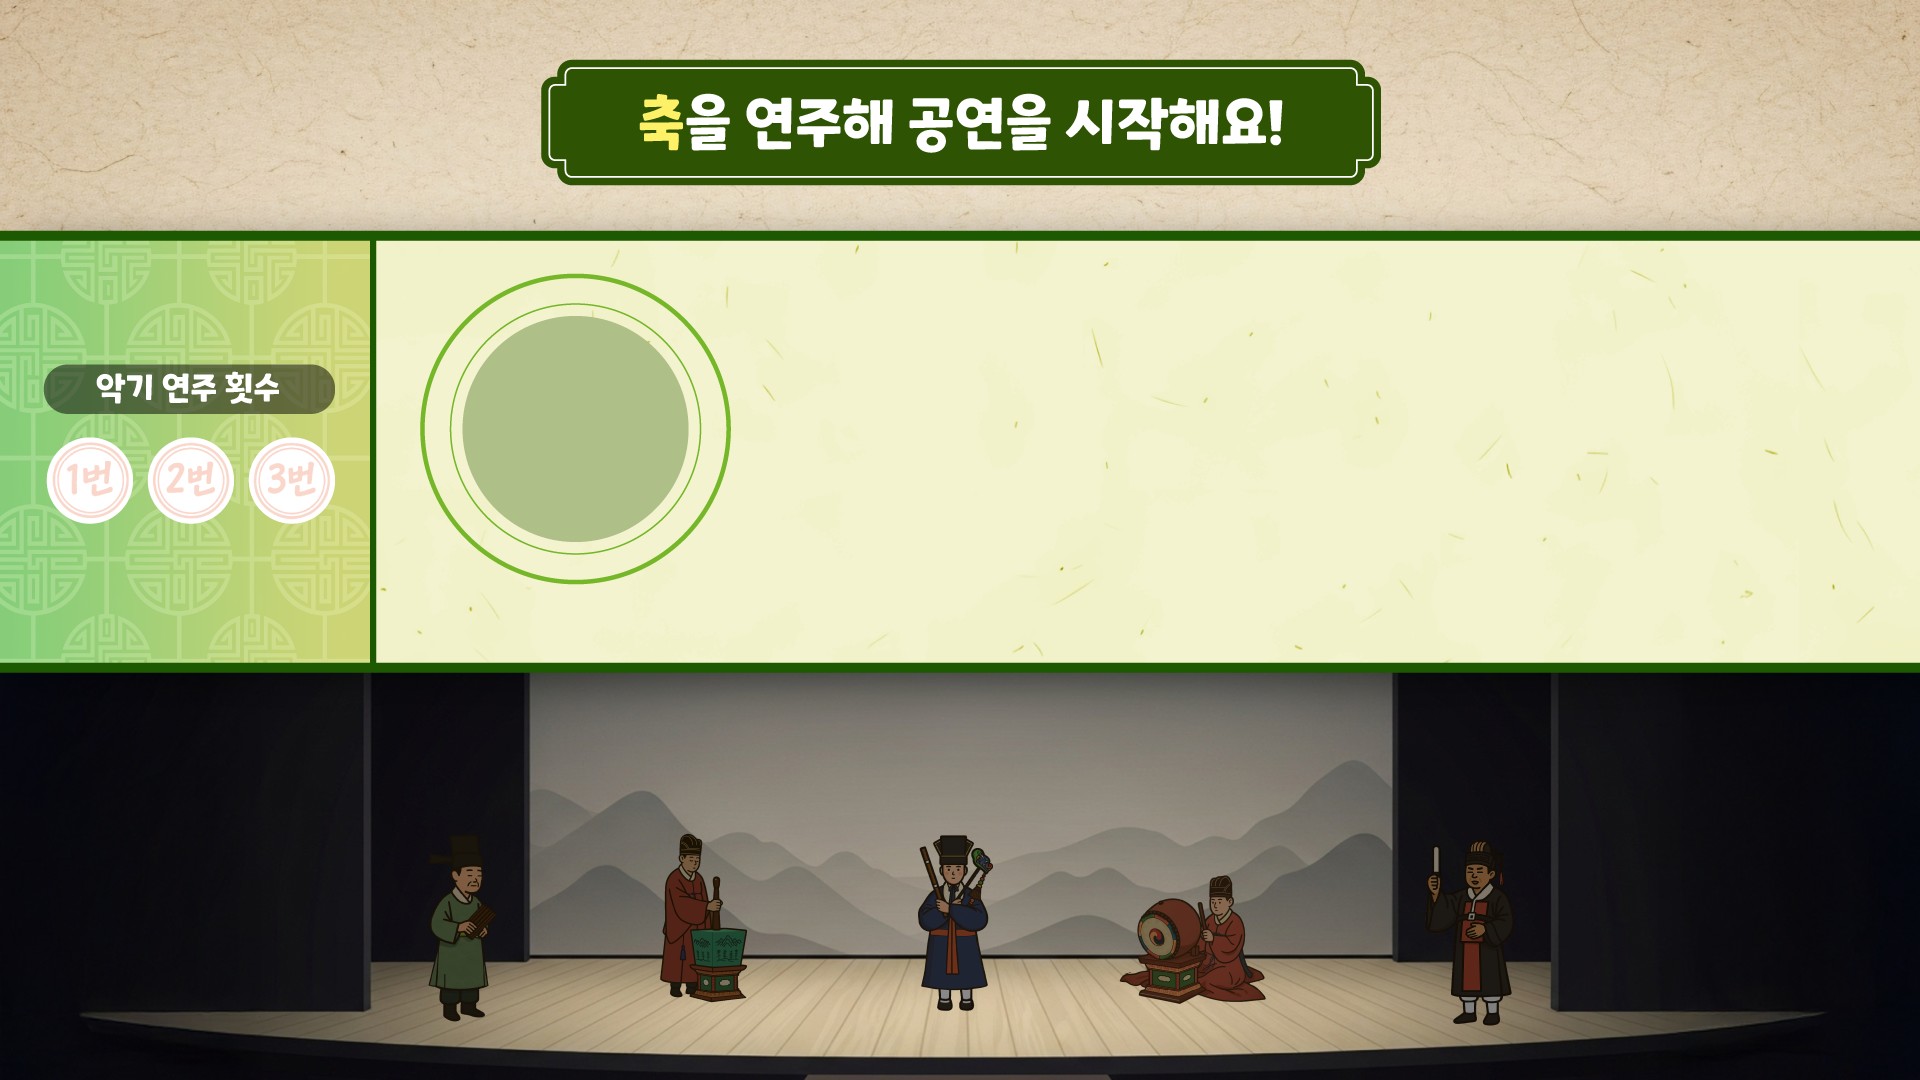
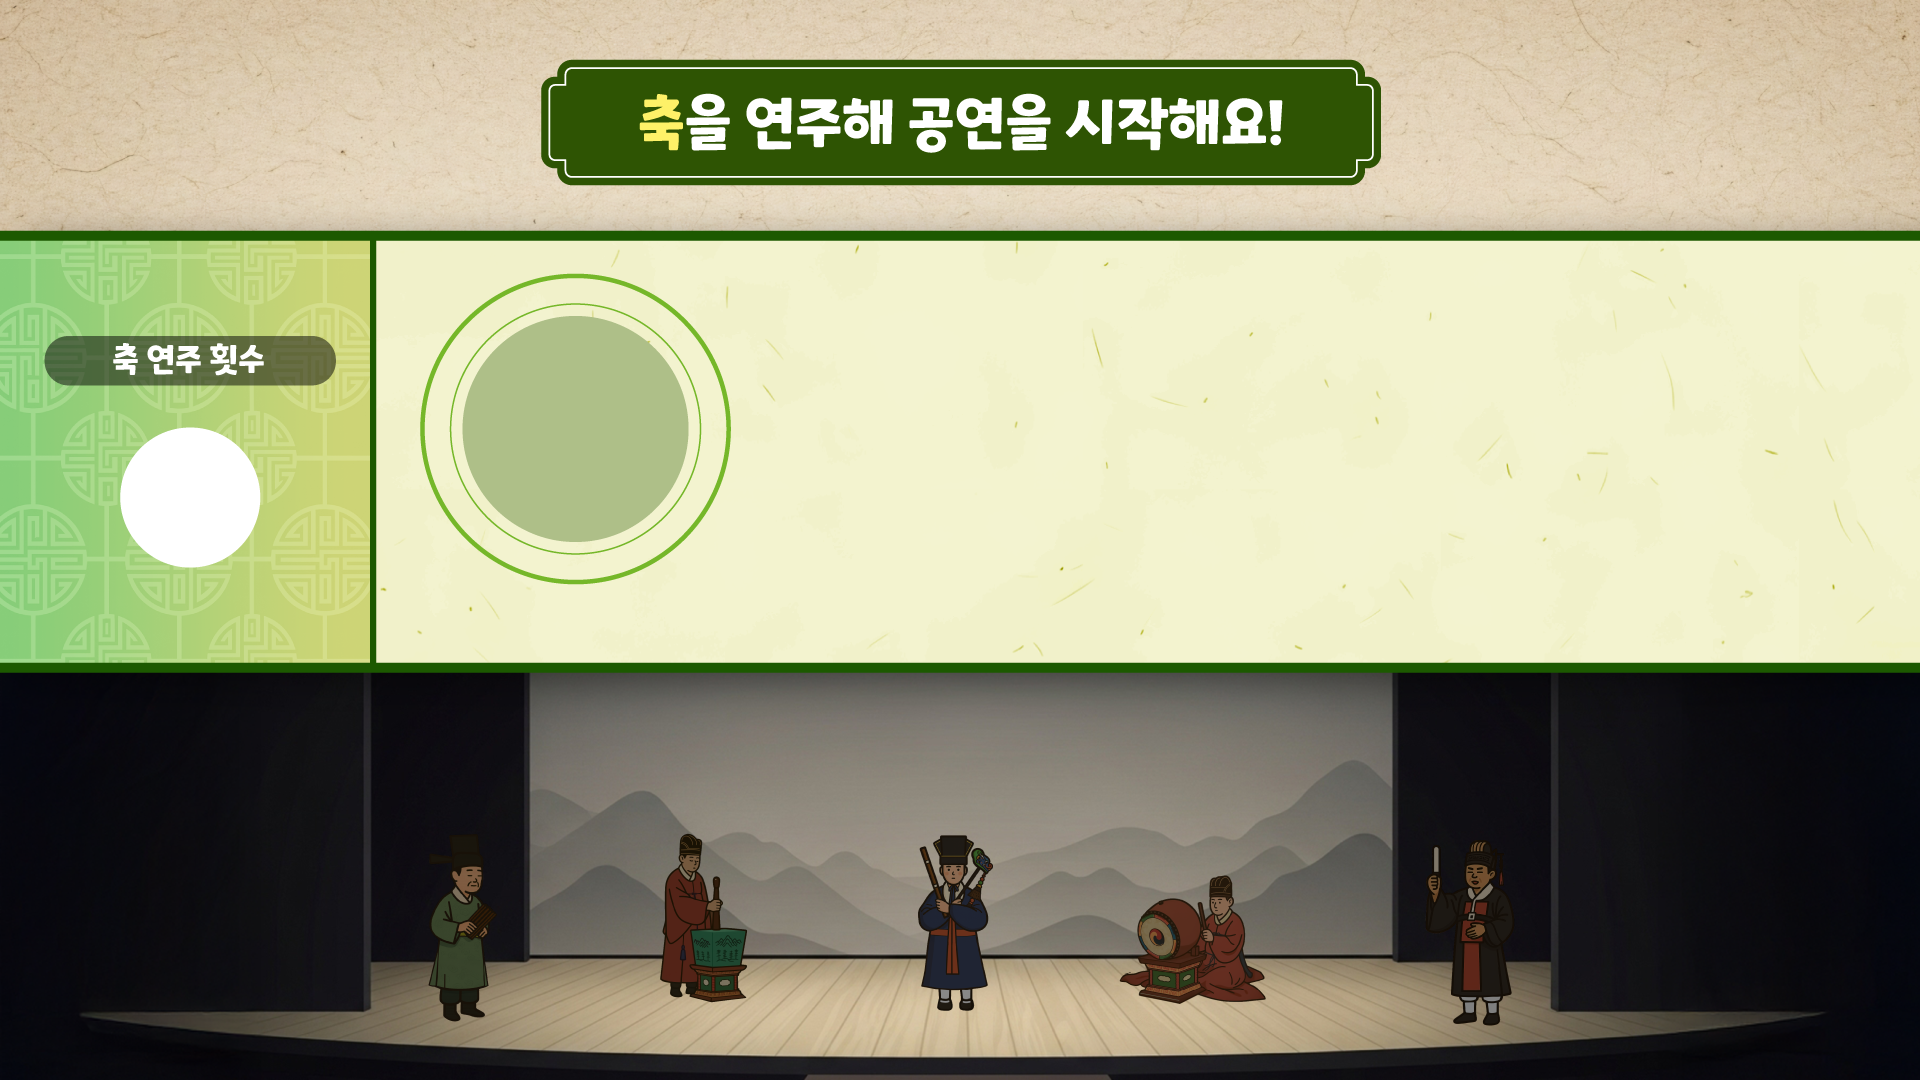
최종 11 - 연주 카운팅 레이아웃이 수정되어 기존에 한 소절 → 1번이 채워지는 방식에서 축 버튼을 누를때마다 1번씩 올라가게 수정해주세요.

Changed region(s): [[0.0, 0.3056, 0.1875, 0.55]]

diff --git a/lowerEl-3/css/select.css b/lowerEl-3/css/select.css
@@ -24,26 +24,16 @@
   position: relative;
 }
 
-.combo1 {
+.combo {
   position: absolute;
-  top: 38.6%;
-  left: -1.2%;
-  width: 11.8%;
-  height: 11.8%;
+  top: 36.8%;
+  left: 4.55%;
+  width: 10.6%;
 }
-.combo2 {
-  position: absolute;
-  top: 38.6%;
-  left: 4.04%;
-  width: 11.8%;
-  height: 11.8%;
-}
-.combo3 {
-  position: absolute;
-  top: 38.6%;
-  left: 9.3%;
-  width: 11.8%;
-  height: 11.8%;
+
+.combo:not([src]),
+.combo[src=""] {
+  visibility: hidden;
 }
 
 .player {

diff --git a/lowerEl-3/select1.html b/lowerEl-3/select1.html
@@ -243,21 +243,7 @@
               </div>
 
               <!-- 콤보 -->
-              <img
-                class="combo1"
-                src="img/select/combo1.png"
-                alt="1번 연주 성공"
-              />
-              <img
-                class="combo2"
-                src="img/select/combo2.png"
-                alt="2번 연주 성공"
-              />
-              <img
-                class="combo3"
-                src="img/select/combo3.png"
-                alt="3번 연주 성공"
-              />
+              <img class="combo" alt="콤보" id="combo" />
 
               <!-- 연주자들 -->
               <img

diff --git a/lowerEl-3/js/select1.js b/lowerEl-3/js/select1.js
@@ -20,6 +20,7 @@ $(function () {
   let gameStarted = false;
   let activatedCombos = new Set(); // 이미 활성화된 콤보들을 추적
   let playerVisibleTimers = {}; // player visible 타이머들을 추적
+  let chookPlayCount = 0; // chook 연주 횟수 추적
 
   $bgmTutorial.play();
 
@@ -87,7 +88,7 @@ $(function () {
           imageRect.top < targetRect.bottom &&
           imageRect.bottom > targetRect.top
         ) {
-          activatePlayerByImage(imageSrc);
+          activatePlayerByImage(imageSrc, this);
         }
       });
 
@@ -139,7 +140,7 @@ $(function () {
     return null;
   }
 
-  function activatePlayerByImage(imageSrc) {
+  function activatePlayerByImage(imageSrc, noteElement) {
     const instrumental = getInstrumentalFromImage(imageSrc);
 
     if (!instrumental) return;
@@ -275,6 +276,13 @@ $(function () {
 
     if (isInTargetZone) {
       showTargetZoneEffect();
+
+      // chook 클릭 시 combo 이미지 업데이트
+      const imageSrc = $clickedImg.attr("src");
+      if (imageSrc && imageSrc.includes("chook")) {
+        chookPlayCount++;
+        $("#combo").attr("src", `img/select/combo${chookPlayCount}.png`);
+      }
     }
 
     // 효과음 재생